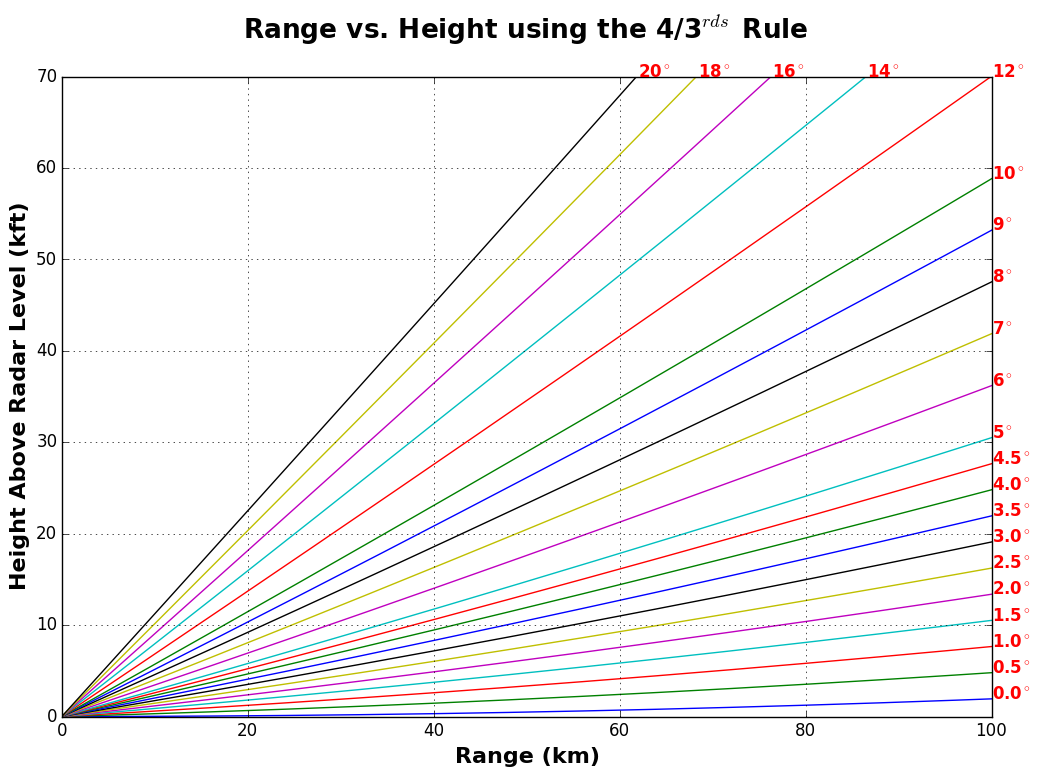
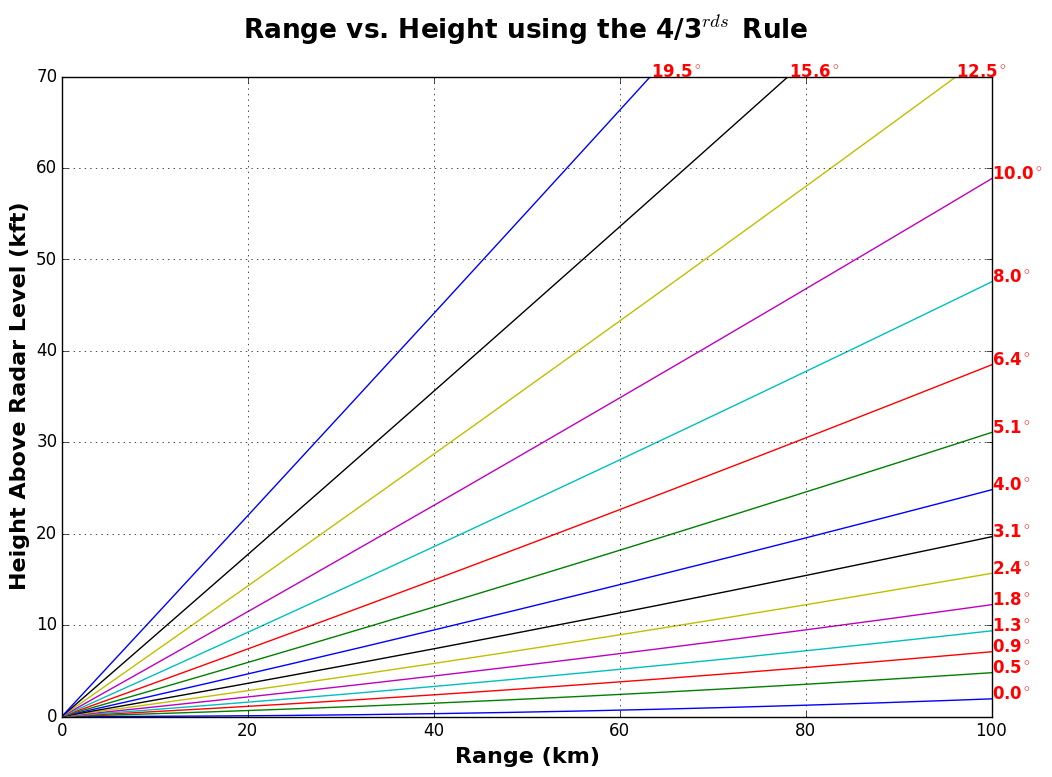
lots of changes and updates - old and new.

diff --git a/fortran/utils/plot_radar_polar.py b/fortran/utils/plot_radar_polar.py
@@ -37,9 +37,12 @@ def main():
    #OBS_FILE='../run/2017080712_fv3.t12z.drw.bufr'
    #date=2017080712      # date and time of the observations                    #
    #OBS_FILE='../run/2017101500_fhr06_fv3.t00z.drw.bufr'
-   OBS_FILE='../run/2017101500_fv3.t00z.drw.bufr'
-   date=2017101500      # date and time of the observations                    #
-   STAID='KGRK'         # station id you want to plot.                         #
+   write_stations=False
+   STAID='KMHX'         # station id you want to plot.                         #
+   date=2018091100     # date and time of the observations                    #
+   #OBS_FILE='../run/2018050306_fv3.t06z_drw.bufr'
+   OBS_FILE='../run/2018091400_fv3.t00z_drw.bufr'
+   #OBS_FILE='../run/rap.t05z.nexrad.tm00.bufr_d'
                         # tilt angle you want to plot.                         #
    #anel_list=[0.5]#,1,1.5,2,2.5,3,3.5,4,4.5,5,6,7,8,9,10,11,12,13,14,15,16,17,18,19,20]
    vcpid=212
@@ -70,10 +73,12 @@ def main():
         #        vcpid=int(subprocess.check_output(("cut","-f","1","-d",","),stdin=ps2.stdout).strip("\n"))
         #        break
 
+
    if(vcpid==212): anel_list=[0.5,0.9,1.3,1.8,2.4,3.1,4.0,5.1,6.4,8.0,10.0,12.5,15.6,19.5]
-   if(vcpid==998): anel_list=[0.5]
+   if(vcpid==998): anel_list=[1.0]
 
    gatespc=250.*ithin
+   #gatespc=125. #250.*ithin
 ##### END OF USER DEFINED SETTINGS ##############################################
    for anel0 in anel_list:
     tic = time.clock()
@@ -84,7 +89,9 @@ def main():
        message_type='NC00'+str(int(str(date)[-2:])+6040) #Ex: NC006052 if for 12z and NC006053 is for 13z.
 
     # Mnemonics for getting data from the bufr file.
-    hdstr= 'SSTN CLON CLAT SELV ANEL YEAR MNTH DAYS HOUR MINU QCRW ANAZ' #PRFR' # MGPT'
+    #hdstr= 'SSTN CLON CLAT SELV ANEL YEAR MNTH DAYS HOUR MINU QCRW ANAZ' #PRFR' # MGPT'
+    #         0   1    2     3     4     5    6   7     8   9    10   11   12   13
+    hdstr= 'SSTN CLON CLAT HSMSL HSALG ANEL YEAR MNTH DAYS HOUR MINU SECO QCRW ANAZ' #PRFR' # MGPT'
     obstr= 'DIST125M DMVR DVSW' # PRFR'                     #NL2RW--level 2 radial wind.
     obstr2='STDM SUPLON SUPLAT HEIT RWND RWAZ RSTD' #RWSOB--radial wind super ob.
 
@@ -93,6 +100,10 @@ def main():
     #OBS_FILE=sys.argv[1]; message_type=sys.argv[2]; date=sys.argv[3]; STAID=sys.argv[4]
 
     del_anel=0.25
+    if(write_stations):
+       station_list_file="station_list.txt"
+       slist = open(station_list_file,"w")
+       previous=""
      
     #2. READ PREPBUFR FILE.
     b='false' # used for breaking the loop.
@@ -105,33 +116,34 @@ def main():
                 hdr = bufr.read_subset(hdstr).squeeze() # parse hdstr='SSTN CLON ... etc.'
                 station_id = hdr[0].tostring() # convert SSTN to string.
                 station_id=station_id.strip()  # remove white space from SSTN.
+                if(write_stations):
+                   present=station_id.strip()
+                   if(previous != present):
+                      previous=present
+                      slist.write(present+"\n")
                 if(station_id == STAID): # comes from input. used for picking a single SSTN.
-                    if(hdr[4] >= anel0-del_anel and hdr[4] <= anel0+del_anel): # read an elevation angle.
+                    print(station_id.strip(),hdr[5])
+                    if(hdr[5] >= anel0-del_anel and hdr[5] <= anel0+del_anel): # read an elevation angle.
                         obs = bufr.read_subset(obstr).squeeze() # parse obstr='DIST125M DMVR DVSW'
                         ###print(bufr.msg_counter,'SSTN,CLON,CLAT,ANAL,ANAZ : ' \
                         ###      ,station_id,hdr[1],hdr[2],hdr[4],hdr[11])
                         i=i+1  #number of observations counter.
                         sids.append(station_id) # station ids
-                        #lons.append(360+hdr[1]) # longitudes
-                        #lats.append(hdr[2]) # latitudes
                         l2rw.append(obs[1]) # level 2 radial winds
-                        anel.append(hdr[4]) # elevation angles
-                        anaz.append(hdr[11]) # azimuthal angles
-                        #PRF.append(obs[2]) #Pulse repitition frequency
-                        #dist125m.append(obs[0]) # distances in units of 125 m
-                        #radii.append(obs[0]*125) #distances in units of 1 m
-                        #radii.append(obs[0]) #distances in units of 1 m
+                        anel.append(hdr[5]) # elevation angles
+                        anaz.append(hdr[13]) # azimuthal angles
                         radii.append(obs[0]*gatespc) #distances in units of 1 m
-                        ymdhm.append(int(hdr[9]))
-                        #print(ymdhm)
-                        if(anaz[-1] >= 360.0): # we would like to break the loop now.
+                        ymdhm.append(int(hdr[10]))
+                        if(len(anaz) >= 360): # we would like to break the loop now.
                             b='true'
+                if(b == 'true'): break # stop reading after all anaz's read.
         if(b == 'true'): break # stop reading after all anaz's read.
     bufr.close()
     try:
        MM=str(ymdhm[-1])
     except IndexError: 
        exit("You have an empty bufr file...")
+    if(write_stations): slist.close
     print(np.min(anel),np.max(anel))
     print(np.min(ymdhm),np.max(ymdhm))
     toc = time.clock() # check how long reading the data in took.
@@ -160,16 +172,21 @@ def main():
     widgetstring=STAID+' '+str(anel0)
     widgets=[widgetstring+': [',Percentage(),' ',Timer(),'] ', Bar(),' (', ETA(), ') ']
     bar = ProgressBar(widgets=widgets)
+    count=0
+    print(len(anaz))
     for i in bar(xrange(0,360,int(360./azimuths))): # for every azimuth angle ...
         #print(i,'/',len(anaz))
         for j in xrange(len(radii[i])): # ... loop over every observation distance from radar ...
             for k in xrange(len(r[i])): # ... and loop over an equally 125m spaced array ...
                 if(radii[i][j] == r[i][k]): # ... if the observation dist = dist125m ...
                     rw[i][k]=l2rw[i][j] # ... assign the value of the observation to that index.
+                    if(rw[i][j]>-999):
+                      count=count+1
                     #PRF_new[i][k]=PRF[i][j]
                     break # speeds things up by about 50-60%.
     rw[np.isnan(rw)] = -999 # the masked values are converted to nan. set nan to -999.
     print("max value is: "+str(np.max(rw))) # check that it is not nan.
+    print("count: "+str(count))
 
     #6. FINISH MAKING THE POLAR PLOT WITH THE FILLED IN VALUES.
     if(False):

diff --git a/fortran/utils/plot_beam_height.py b/fortran/utils/plot_beam_height.py
@@ -6,7 +6,7 @@ def main():
     fill_between=False    # True for filling between 0.5 and 20 degree tilts
     fill_between_vals=[0.5,5,20]
     both_directions=False # True for showing radar coverage to the left and right of station.
-    proportional=False   # True for km x km plot, otherwise km x kft plot
+    proportional=True   # True for km x km plot, otherwise km x kft plot
     two=2.; r8=8.; rearth=6370000. #Constants
     deg2rad=3.14149265/180.00000000; m2ft=3.28084; m2km=0.001; ft2kft=0.001 # Conversion factors
     range_max=100000.
@@ -15,12 +15,14 @@ def main():
     title_fontsize=19.; xy_axis_fontsize=16.
     if(proportional): # Makes an 8x8 plot with axes units km x km
        if(fill_between): tilts=np.array(fill_between_vals)
-       else: tilts=np.array([0,1,2,3,4,5,6,7,8,9,10,12,14,16,18,20])
-       ymax=50.; line_label_fontsize=9.; fig = plt.figure(figsize=(8,8))
+       else: tilts=np.array([0,0.5,0.9,1.3,1.8,2.4,3.1,4.0,5.1,6.4,8.0,10.0,12.5,15.6,19.5])
+       #else: tilts=np.array([0,1,2,3,4,5,6,7,8,9,10,12,14,16,18,20])
+       ymax=40; line_label_fontsize=9.; fig = plt.figure(figsize=(20,12))
        plt.gca().set_aspect('equal',adjustable='box')
     else: # Makes a 12x8 plot with axes km x kft
        if(fill_between): tilts=np.array(fill_between_vals)
-       else: tilts=np.array([0,0.5,1,1.5,2,2.5,3,3.5,4,4.5,5,6,7,8,9,10,12,14,16,18,20])
+       else: tilts=np.array([0,0.5,0.9,1.3,1.8,2.4,3.1,4.0,5.1,6.4,8.0,10.0,12.5,15.6,19.5])
+       #else: tilts=np.array([0,0.5,1,1.5,2,2.5,3,3.5,4,4.5,5,6,7,8,9,10,12,14,16,18,20])
        ymax=70.; line_label_fontsize=12.; fig = plt.figure(figsize=(12,8))
     rads=tilts*deg2rad
     thishgt=np.zeros(shape=(len(tilts),len(ranges))) # Initialized values to 0
@@ -37,12 +39,14 @@ def main():
             epsh=(thisrange*thisrange-ha*ha)/(r8*rearth)
             h=ha-epsh
             thishgt[i,j]=h
+            if(thisrange == 20000 and tilt == 0.5*deg2rad):
+               print thisrange,thishgt[i,j]
             j=j+1
     for t in range(len(tilts)):
         if(proportional): x=ranges*m2km; y=thishgt[t,:]*m2km; yunits='km'; svfigstr='kmkm'
         else: x=ranges*m2km; y=thishgt[t,:]*m2ft*ft2kft; yunits='kft'; svfigstr='kmkft'
         label=str(tilts[t])+'$^\circ$'
-        if(tilts[t]>=5.0):
+        if(tilts[t]>=20.0):
            label=str(int(tilts[t]))+'$^\circ$'
         #plt.plot(x,y,color=c)
         plt.plot(x,y)
